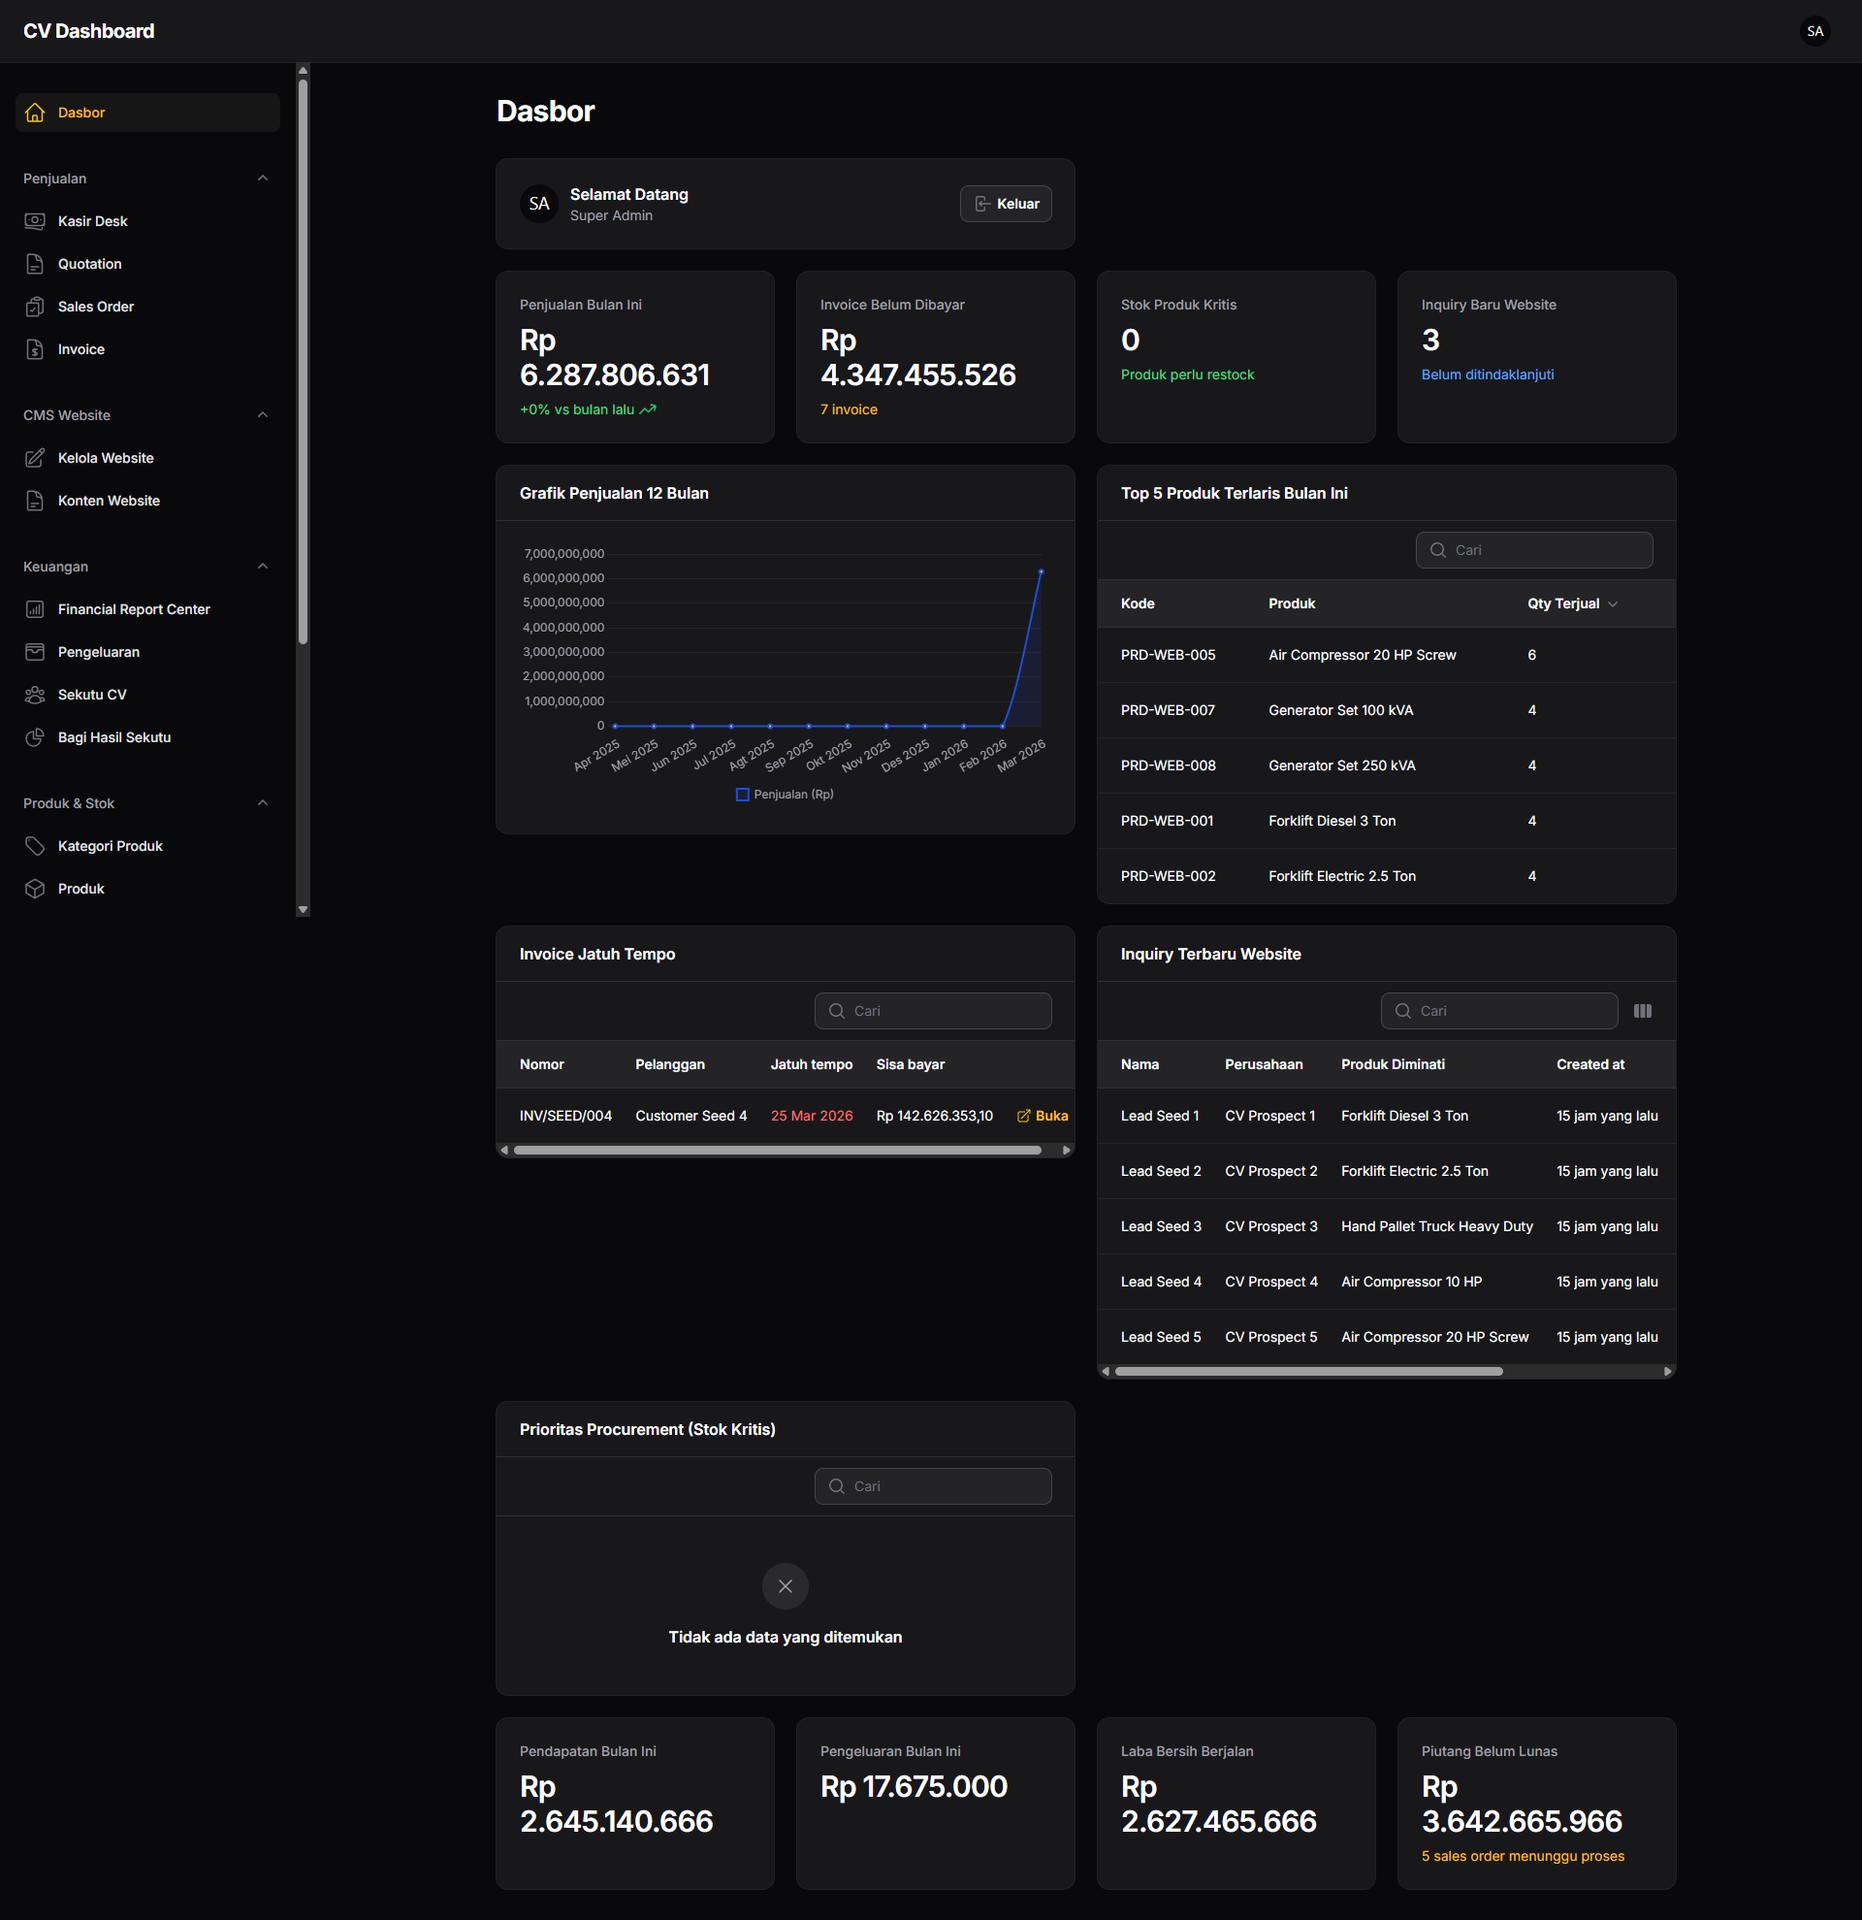
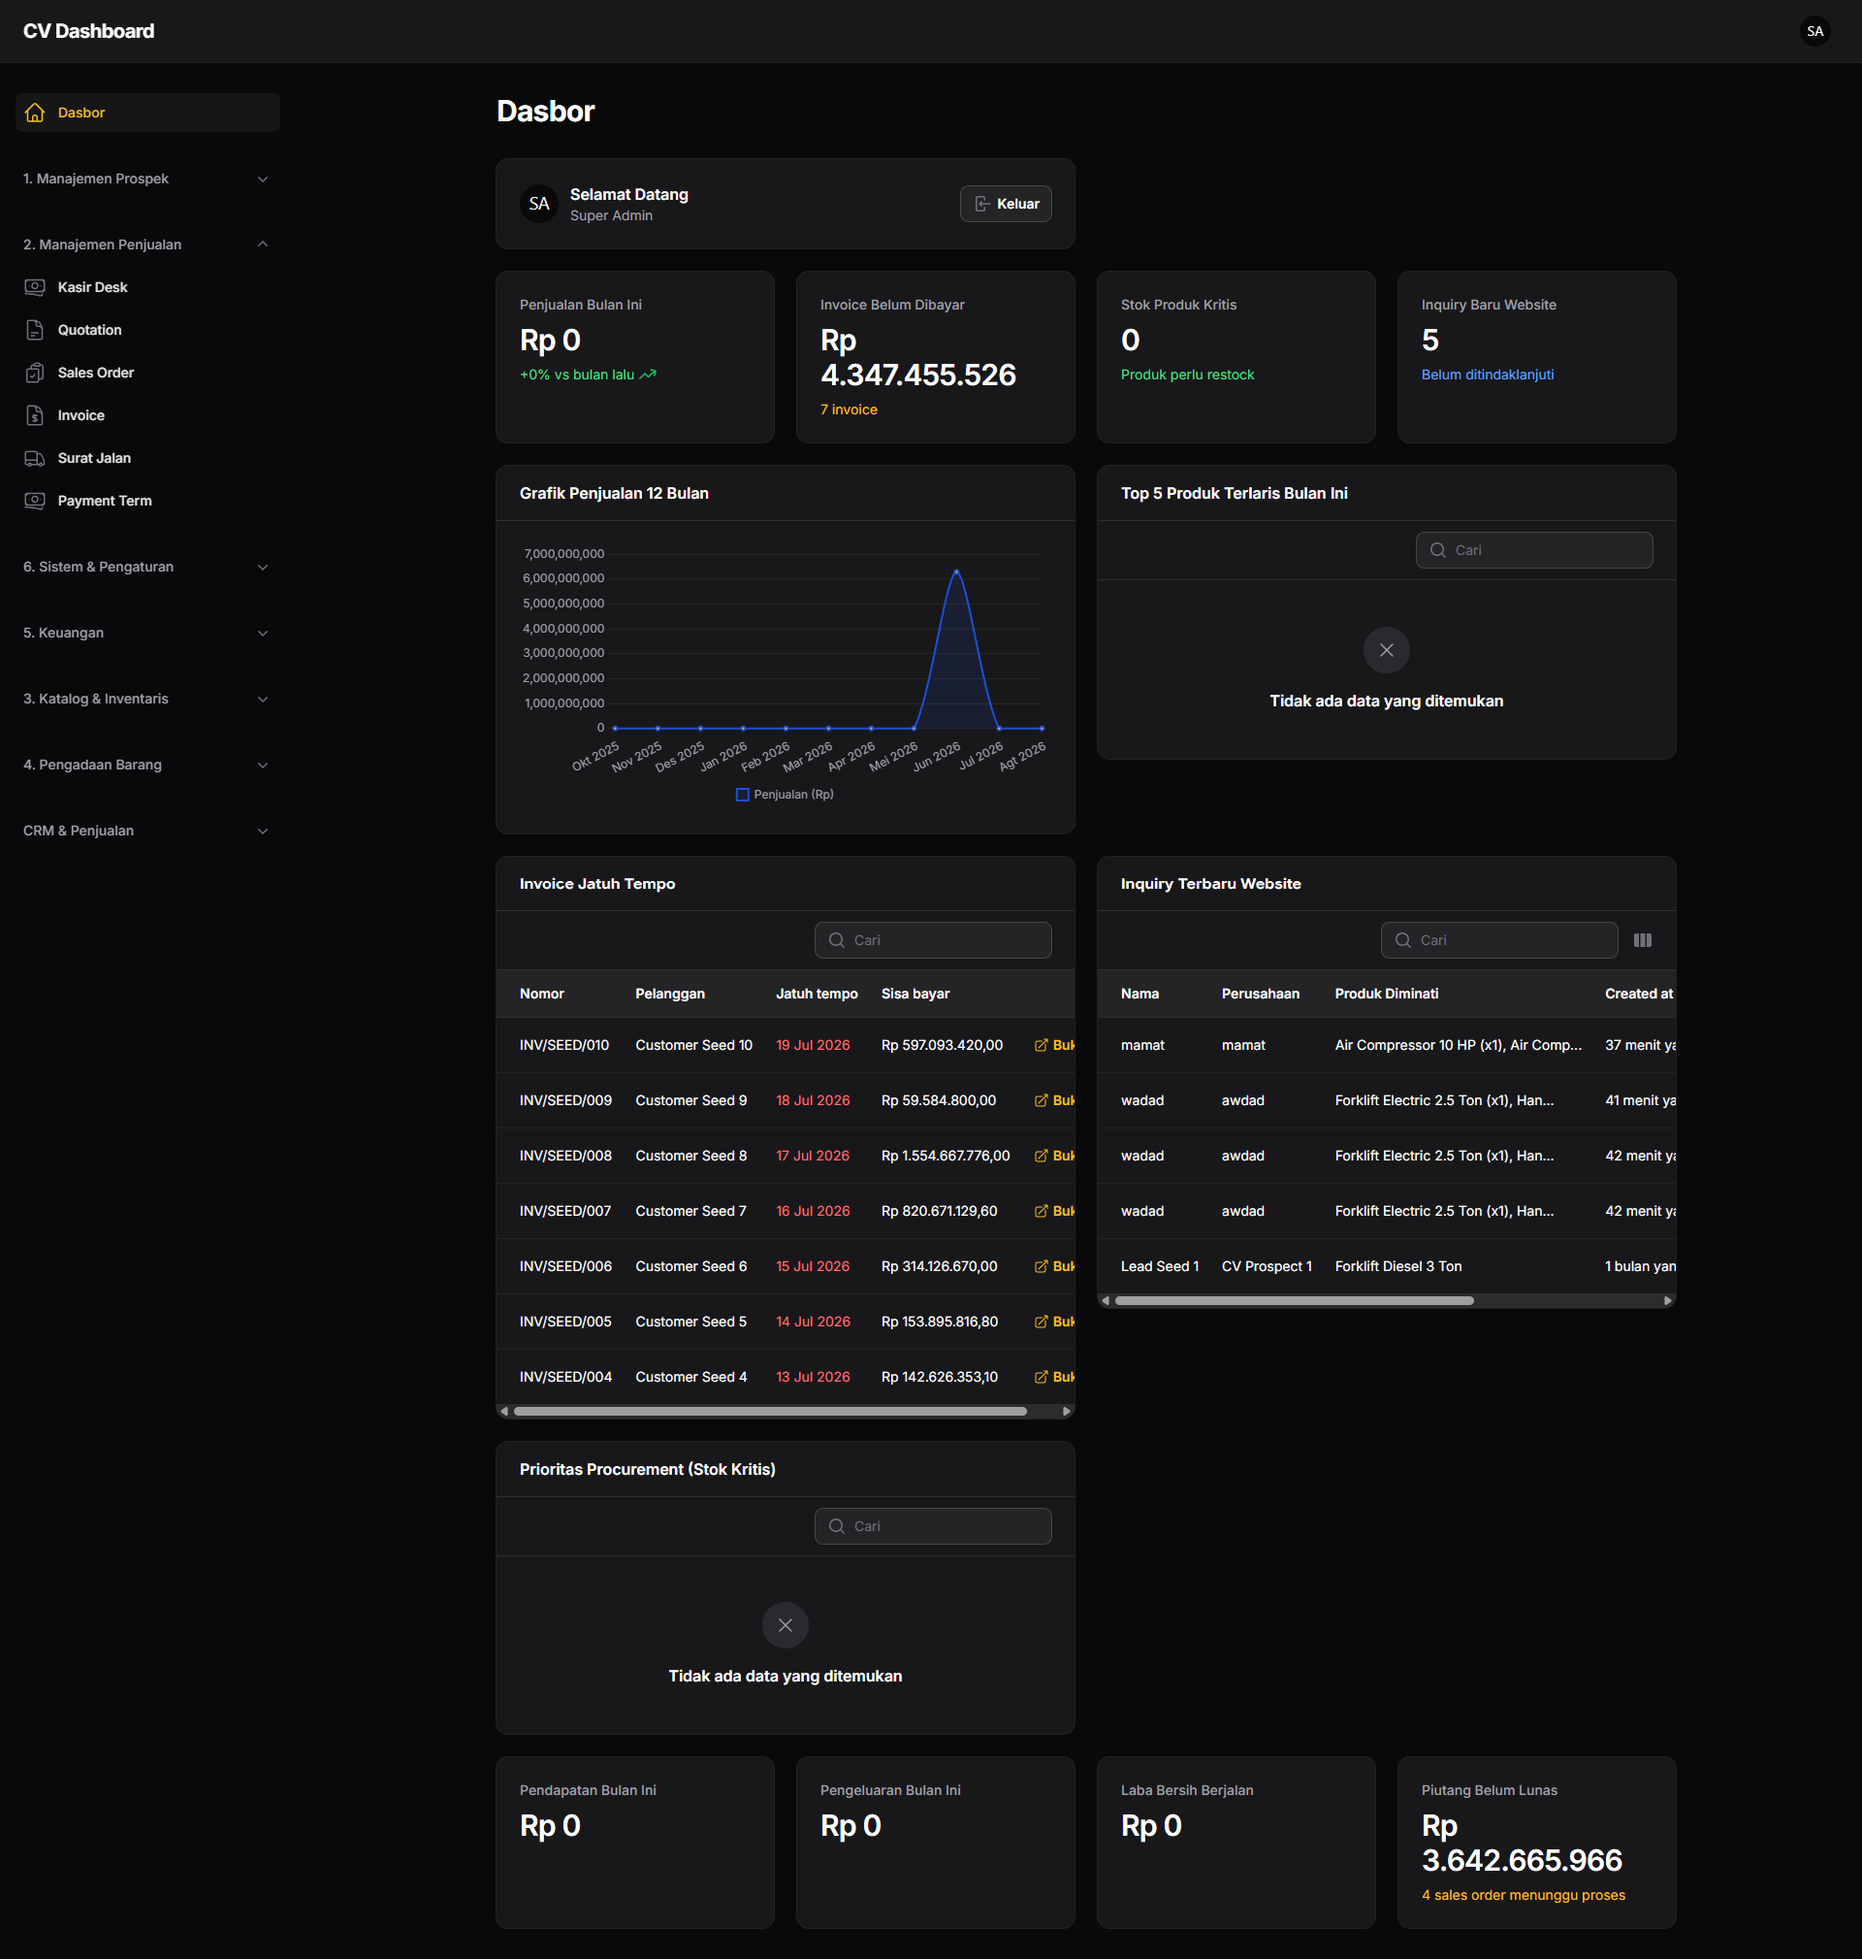
feat: update core system pricing and add dashboard screenshot to documentation

diff --git a/index.html b/index.html
@@ -569,7 +569,7 @@
             <div class="pricing-card popular">
                 <div class="pricing-badge">Lisensi Sistem Utama</div>
                 <h3 class="pricing-title">Core System License</h3>
-                <div class="price">Mulai Rp 4.5 Juta</div>
+                <div class="price">Mulai Rp 5 Juta</div>
                 <p class="price-desc">Lisensi Sekali Bayar</p>
                 
                 <ul class="pricing-features">
